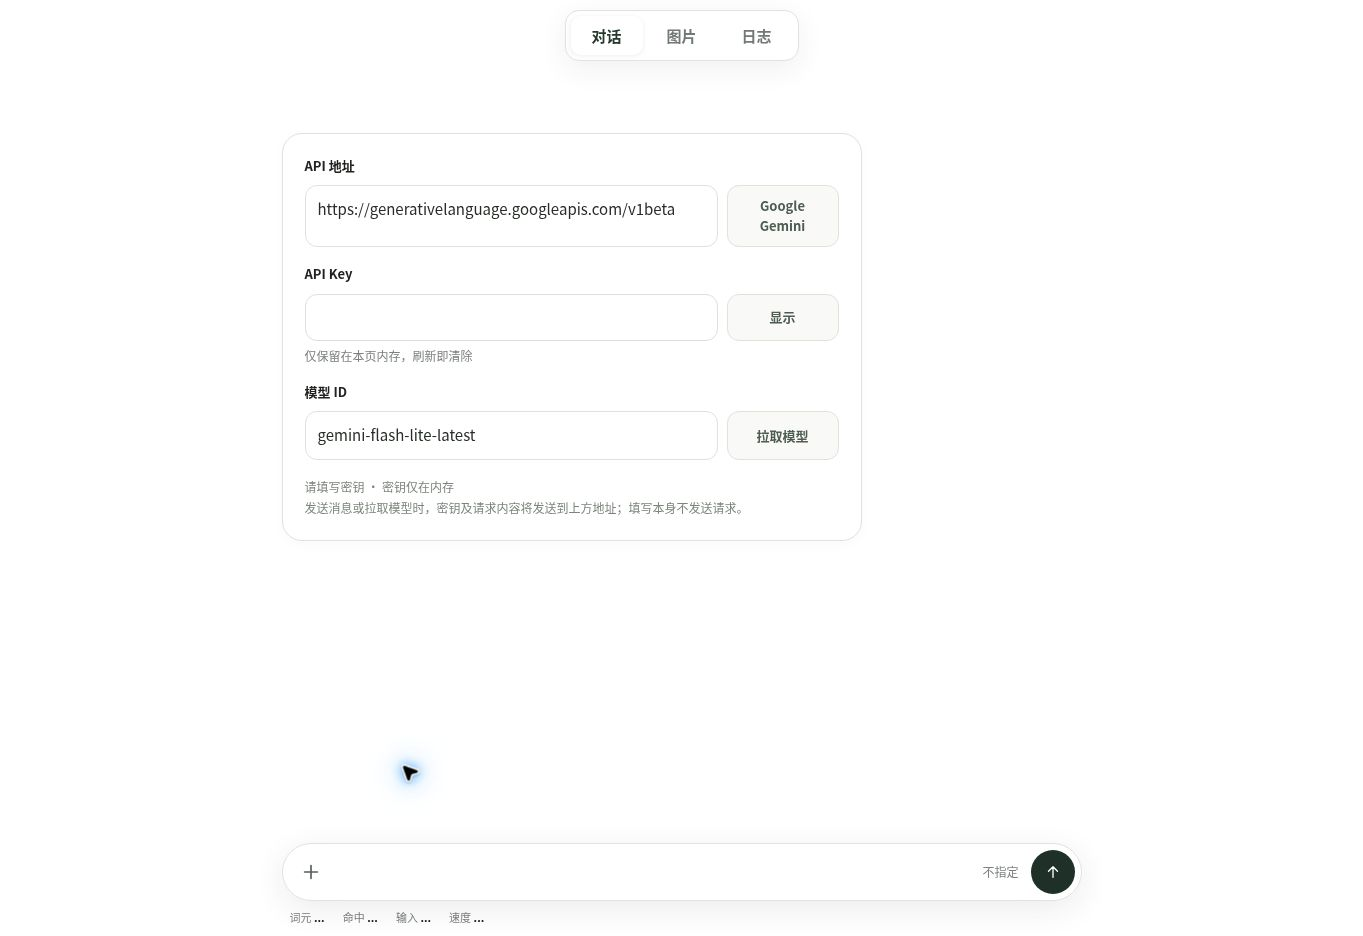
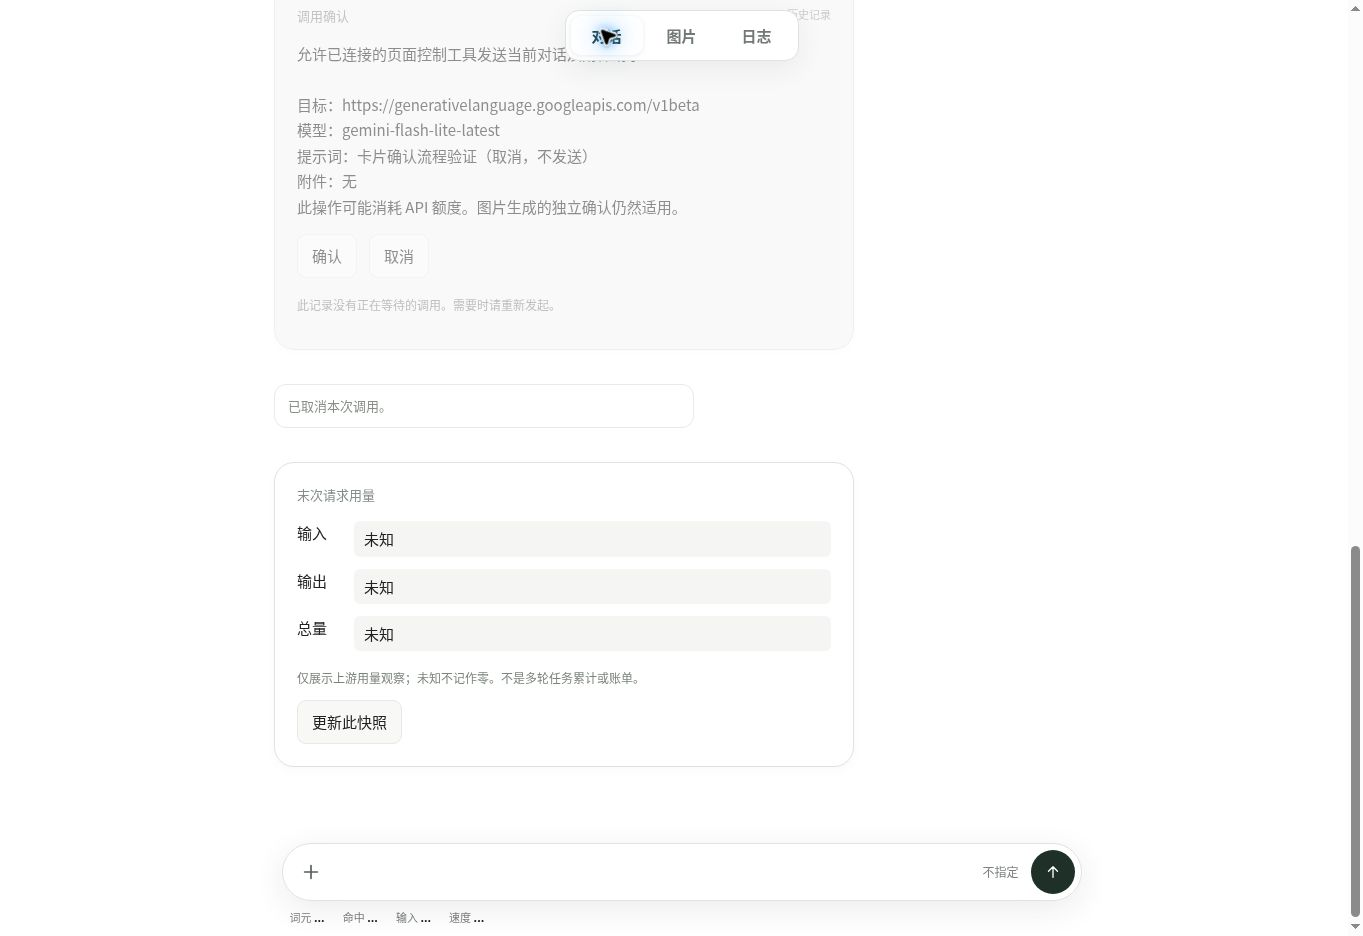
docs: record v0.4.0 live card behavior and publication evidence

diff --git a/knowledge/snapshots/v0.4.0-6a2e6c012766/deployment.md b/knowledge/snapshots/v0.4.0-6a2e6c012766/deployment.md
@@ -1,3 +1,29 @@
 # v0.4.0 发布后记录
 
-本地验证完成。远端 CI、部署和实际页面观察尚待执行；本文件不表示它们已经通过。
+观察时间：2026-10-30T05:46:12Z（北京时间 13:46:12）。本记录补充发布事实，不改变冻结源提交，也不把浏览器观察升级为完整场景验收。
+
+| 身份或检查 | 观察 |
+| --- | --- |
+| 项目源提交 | `6a2e6c012766936653b312181181a667ec1f16bb` |
+| 知识覆盖层候选 | `ead56ad85d8aca3690ba81c76d9ca09ec5f17cb8`；项目变更与知识文件的远端 blob 身份已核对 |
+| 合并 | [PR #8](https://github.com/zjj1280637679-ship-it/simple-llm-api-web/pull/8)；`07cb04758574e4dcadaeb01fbb478994a2b1ace2` |
+| PR CI | [41009569646](https://github.com/zjj1280637679-ship-it/simple-llm-api-web/actions/runs/41009569646)，success |
+| main 构建及 Pages 发布 | [41009658003](https://github.com/zjj1280637679-ship-it/simple-llm-api-web/actions/runs/41009658003)，success，2026-10-30T05:40:13Z 完成 |
+| 生产入口 | [极简 LLM](https://zjj1280637679-ship-it.github.io/simple-llm-api-web/)；实际 script src 为 `./src/app.js?v=5828d45badc5e932c230`，与本地构建一致 |
+| 浏览器 | 1363×936 云端 Chrome；恢复旧设置卡，新增模型卡、日志卡、用量图表，以及内联确认卡的取消 |
+| 位置规则 | 新卡成为末项后，旧卡 fieldset 均 disabled；取消回执成为末项时 4 张卡全部 disabled；再次添加图表时前 4 张 disabled、末张 enabled |
+| 快照表现 | 图表的输入、输出、总量均显示“未知”；末张图表可更新；旧日志与确认按钮均不可操作 |
+| 布局观察 | documentElement clientWidth 与 scrollWidth 均为 1363；当前视口无横向溢出，不代表所有视口/内容组合 |
+| 请求范围 | 未填写密钥；确认卡选择取消后显示“已取消本次调用。”；日志页显示“暂无通讯记录”，没有进行供应商或付费调用 |
+
+本地回归 409 项：408 通过、1 项原有可选 MCP SDK 互操作测试跳过；26 个最简宿主通过。有限模型覆盖结束判断 680 组合、图片效果 820 列表、卡片位置 1,555 条代表历史与 7,465 次身份查询。完整输出及 174 个输入指纹见 [VALIDATION.md](../../../VALIDATION.md) 和 [review.json](../../../development/evidence/review.json)。知识检查对 235 个项目文件为 MATCH。
+
+本次页面工具调用确实创建了确认卡，但云浏览器在等待异步工具回复时报告 `Runtime.evaluate timed out` 并重置控制会话。恢复后通过 UI 取消并观察上述结果；**不把这次观察记作 WebMCP 调用方完整响应链路通过**。本地宿主对确认/取消/抢占/销毁及重复操作的断言独立记录在回归中。外部工具长等待的互操作仍需单独验证。
+
+恢复本机内容的提示条曾遮住顶端导航；打开其备份说明并关闭后提示消失，导航恢复可点击。此处如实记录这一已有交互摩擦，未在本轮修改其布局。截图展示关闭提示后的实际页面。
+
+![历史确认卡冻结，末项用量卡可操作](live.jpg)
+
+本轮不包含真实模型效果、付费路径或物理 iOS 验收。有限枚举、单视口观察与回归测试均不是完整形式证明，也不证明全部用户目标已经达成。
+
+本记录、截图和入口修订属于 `AGENTS.md` / `knowledge/**` 发布覆盖层，不进入生产构建或冻结项目文件指纹；旧快照保留。仅补充覆盖层不构成新的需求/条件阶段。

diff --git a/AGENTS.md b/AGENTS.md
@@ -13,7 +13,6 @@
 | 任务 | 路由 |
 | --- | --- |
 | 交互卡、历史末项、动作与保存 | `cards` |
-| 交互卡、历史末项、动作与保存 | `cards` |
 | 目标、约束、奖励/惩罚与开发态理论 | `model` |
 | 观察、解释、接纳、效果及有限模型 | `judgments` |
 | 状态归属、生命周期、模块库 | `ownership` |
@@ -37,7 +36,5 @@
 知识图是带来源身份的导航，未实现为产品业务逻辑。项目变更后按照 [更新规则](knowledge/README.md#更新快照)生成新的快照；阶段是否改变仍由需求/条件漂移判断。用户当前指令优先，不由本文件额外引入审批或多人流程。
 
 判断层的具体开发规范见 [认识论设计](design/EPISTEMIC_DESIGN.md)。纯函数解释、宿主策略、外部效果、目标验收分别变更和验证；运行 `npm run models` 检查有限分类，并保留其抽象对应义务。
-
-新人的使用入口在 [docs/README.md](docs/README.md)。卡片活跃性按历史末项推导；不要另存过期/待处理状态。动作统一走 dispatcher 与类型登记；异步写回再次核对位置。业务请求、持久化和确认延续仍各有自己的效果/资源条件，见 [交互卡协议](docs/INTERACTION_CARDS.md)。
 
 新人的使用入口在 [docs/README.md](docs/README.md)。卡片活跃性按历史末项推导；不要另存过期/待处理状态。动作统一走 dispatcher 与类型登记；异步写回再次核对位置。业务请求、持久化和确认延续仍各有自己的效果/资源条件，见 [交互卡协议](docs/INTERACTION_CARDS.md)。

diff --git a/knowledge/README.md b/knowledge/README.md
@@ -30,7 +30,7 @@ node knowledge/verify.mjs
 
 ## 这个快照保证什么
 
-建立时，213 个本地项目文件逐字节与 GitHub 源树匹配；图中保留 Git blob SHA、SHA-256、原始证据时间、模块/宿主独立版本。结构检查涵盖节点/边身份、引用闭合、文件指纹和行锚点。
+建立时，235 个本地项目文件逐字节与 GitHub 源树匹配；图中保留 Git blob SHA、SHA-256、原始证据时间、模块/宿主独立版本。结构检查涵盖节点/边身份、引用闭合、文件指纹和行锚点。
 
 这些检查支持“摘要指向哪版内容”，不证明摘要语义完整、历史报告真实、外部服务当前可用或程序形式正确。静态导入关系使用有行锚点的字面提取；动态 import、注入、DOM 事件、网络和语义依赖没有被穷尽。状态字段描述命题类型，不是从低到高的统一可信度评分。
 
